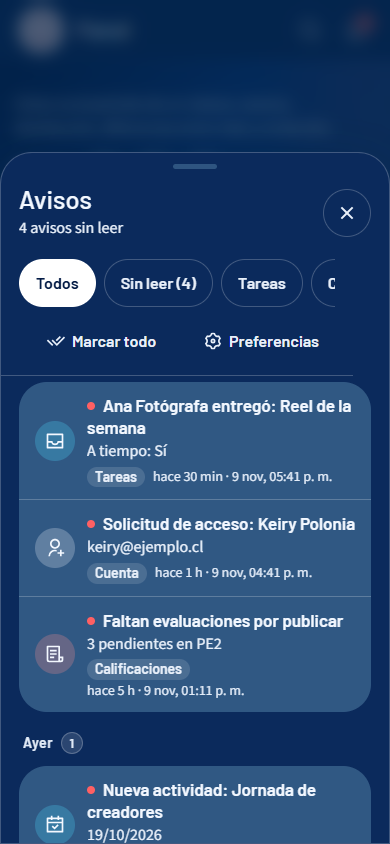
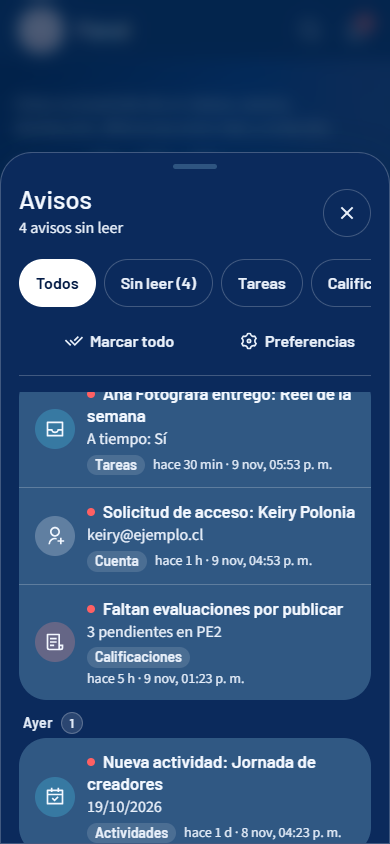
Avisos: la barra de filtros ya no es pegajosa; el panel se parte en barra fija y listado con scroll propio, recortado en el borde de la barra

diff --git a/core/notificaciones.js b/core/notificaciones.js
@@ -205,13 +205,13 @@ const Notif = (() => {
       const vacio = _solo ? ['check-double', 'Estás al día.', 'No hay avisos sin leer.']
         : _categoria ? ['bell', 'Nada en esta categoría.', 'Cuando haya algo, aparecerá aquí.']
         : ['bell', 'Todavía no tienes avisos.', 'Aquí aparecerán tus tareas, equipos, calificaciones y actividades.'];
-      host.innerHTML = barra + `<div class="aviso-estado" role="status"><i data-lucide="${vacio[0]}" aria-hidden="true"></i>
-        <div><b>${vacio[1]}</b><p>${vacio[2]}</p></div></div>` + (_hayMas ? '<button type="button" class="btn-ghost avisos-mas" data-act="avisosMas">Ver avisos anteriores</button>' : '');
+      host.innerHTML = barra + `<div class="avisos-scroll"><div class="aviso-estado" role="status"><i data-lucide="${vacio[0]}" aria-hidden="true"></i>
+        <div><b>${vacio[1]}</b><p>${vacio[2]}</p></div></div>` + (_hayMas ? '<button type="button" class="btn-ghost avisos-mas" data-act="avisosMas">Ver avisos anteriores</button>' : '') + '</div>';
       renderIconos(host); return;
     }
     const _cuenta = {};   // cuántos avisos hay en cada grupo de día (el número junto al título del grupo)
     for (const a of lista) { const g = _grupo(a.creada); _cuenta[g] = (_cuenta[g] || 0) + 1; }
-    let html = barra, actual = '';
+    let html = barra + '<div class="avisos-scroll">', actual = '';
     for (const a of lista) {
       const g = _grupo(a.creada);
       if (g !== actual) { html += `${actual ? '</ul>' : ''}<h3 class="avisos-grupo">${g}<span class="avisos-grupo-n">${_cuenta[g]}</span></h3><ul class="avisos-lista">`; actual = g; }
@@ -219,7 +219,7 @@ const Notif = (() => {
     }
     html += '</ul>';
     if (_hayMas) html += '<button type="button" class="btn-ghost avisos-mas" data-act="avisosMas">Ver avisos anteriores</button>';
-    host.innerHTML = html;
+    host.innerHTML = html + '</div>';
     renderIconos(host);
   }
 
@@ -359,7 +359,7 @@ const Notif = (() => {
   function _pintarPrefs(host) {
     const porCat = {};
     (_prefs || []).forEach(p => { (porCat[p.categoria] = porCat[p.categoria] || []).push(p); });
-    let html = `<div class="avisos-barra"><button type="button" class="btn-texto" data-act="avisosLista"><i data-lucide="arrow-left" aria-hidden="true"></i>Volver a los avisos</button></div>
+    let html = `<div class="avisos-barra"><button type="button" class="btn-texto" data-act="avisosLista"><i data-lucide="arrow-left" aria-hidden="true"></i>Volver a los avisos</button></div><div class="avisos-scroll">
       <p class="pref-intro">Aquí eliges qué avisos te llegan <b>por correo</b>. Todos aparecen siempre en la campana. Los esenciales no se pueden apagar porque afectan tu trabajo o tus calificaciones.</p>`;
     for (const c of Object.keys(CATEGORIAS)) {
       const fs = porCat[c]; if (!fs) continue;
@@ -375,7 +375,7 @@ const Notif = (() => {
       }).join('') + '</ul>';
     }
     if (_cfg.portal === 'admin') html += '<div id="avisos-estado" class="pref-estado"></div>';
-    host.innerHTML = html;
+    host.innerHTML = html + '</div>';
     renderIconos(host);
   }
 

diff --git a/vidrio.css b/vidrio.css
@@ -745,9 +745,12 @@ button > svg, a > svg { flex: none; }
 /* 59. Superposición con el vidrio. movil.css (carga después) devolvía a la barra de avisos un fondo translúcido
    (--surface-1) y las tarjetas se veían a través de los filtros. Todo lo que queda fijo sobre contenido que se desplaza
    es opaco (--v-solido) en los dos temas; se gana por especificidad, no con !important. */
-.panel .avisos-barra, .panel.panel--hoja .avisos-barra { background: var(--v-solido); -webkit-backdrop-filter: none; backdrop-filter: none; border-radius: 0; box-shadow: none; border-bottom: 1px solid var(--v-line); z-index: 5; }
-.panel.panel--hoja .avisos-barra { margin: 0 calc(var(--m-gutter) * -1) 12px; padding: 4px var(--m-gutter) 10px; }   /* de borde a borde del panel: nada de las tarjetas asoma por los lados */
-.panel.panel--hoja .panel-cuerpo { padding-top: 0; }
+/* Avisos: la barra NO es pegajosa. El panel se parte en dos zonas: la barra fija arriba y el listado que se desplaza debajo,
+   recortado en el borde de la barra. Así no hay nada que se monte sobre las tarjetas ni se vea a través. */
+.panel-cuerpo:has(> #avisos-cuerpo) { overflow: hidden; display: flex; flex-direction: column; padding-bottom: 0; }
+.panel #avisos-cuerpo { display: flex; flex-direction: column; flex: 1 1 auto; min-height: 0; }
+.panel #avisos-cuerpo > .avisos-barra { position: static; flex: none; margin: 0 0 8px; padding: 4px 0 10px; border-radius: 0; box-shadow: none; background: none; border-bottom: 1px solid var(--v-line); }
+.panel #avisos-cuerpo > .avisos-scroll { flex: 1 1 auto; min-height: 0; overflow-y: auto; overscroll-behavior: contain; padding-bottom: max(24px, env(safe-area-inset-bottom)); }
 .panel.panel--hoja .aviso-grupo-t, .panel .aviso-grupo-t { position: relative; z-index: 1; }
 .perfil--panel .perfil-barra, .perfil:not(.perfil--panel) .perfil-barra { background: var(--v-solido); }
 
